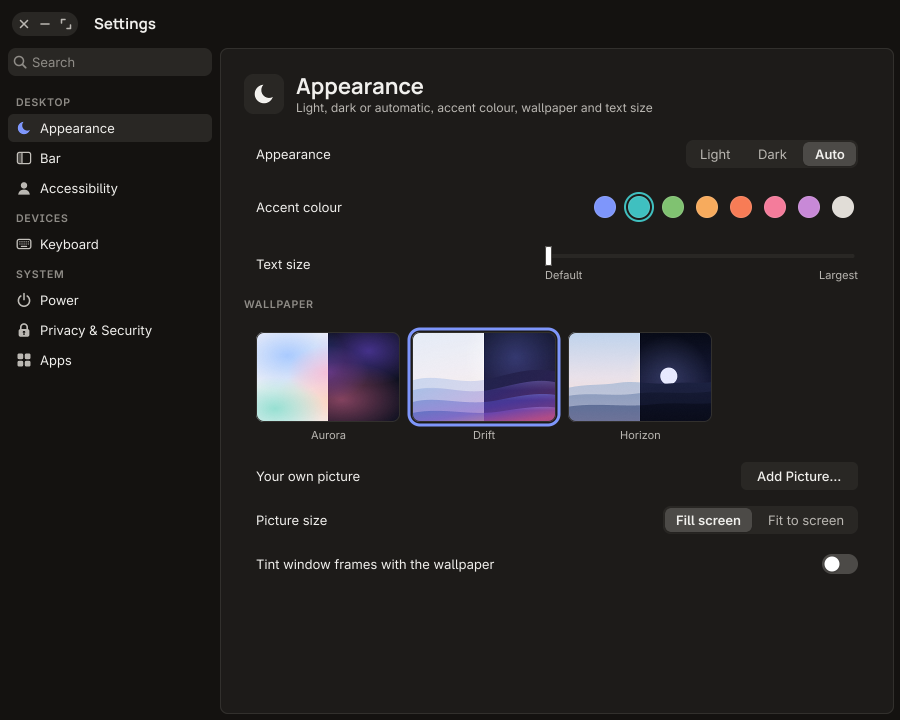
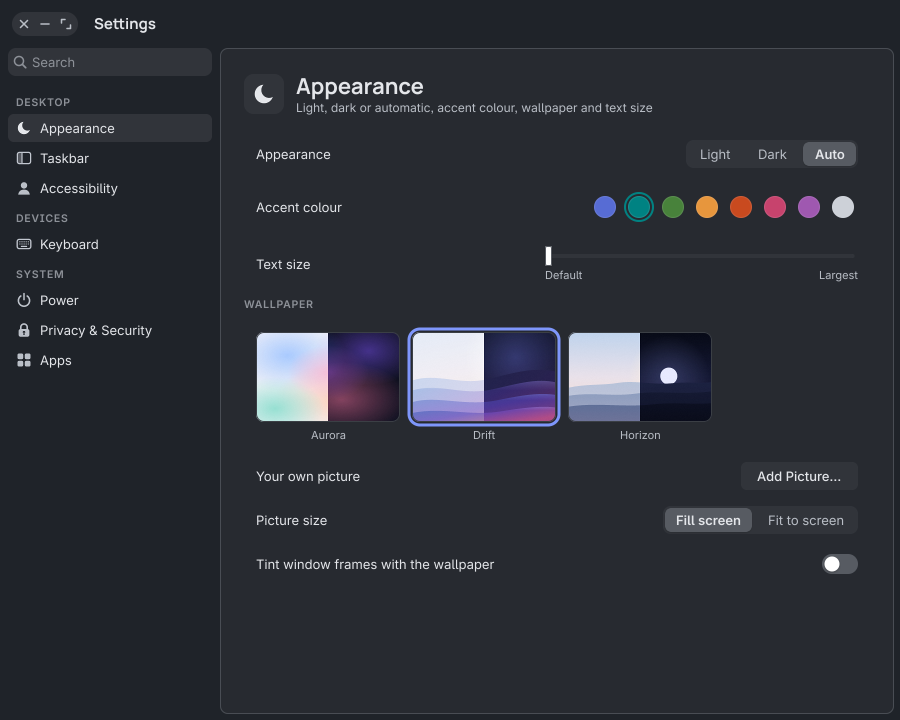
Show current renders of Files, the taskbar, Settings and the lock screen

Changed region(s): [[0.0, 0.0, 1.0, 1.0], [0.6533, 0.275, 0.9333, 0.3056], [0.7156, 0.7028, 0.84, 0.7639]]

diff --git a/pages/index.html b/pages/index.html
@@ -14,8 +14,8 @@
     <figcaption>Files</figcaption>
   </figure>
   <figure class="tall">
-    <img src="/img/bar.png" width="344" height="720" alt="The bar with the app menu, running apps, workspaces and status">
-    <figcaption>The bar</figcaption>
+    <img src="/img/taskbar.png" width="344" height="720" alt="The taskbar with the app menu, running apps, Trash, workspaces, status and clock">
+    <figcaption>The taskbar</figcaption>
   </figure>
   <figure class="wide">
     <img src="/img/settings-dark.png" width="900" height="720" alt="Settings, Appearance page in dark mode">
